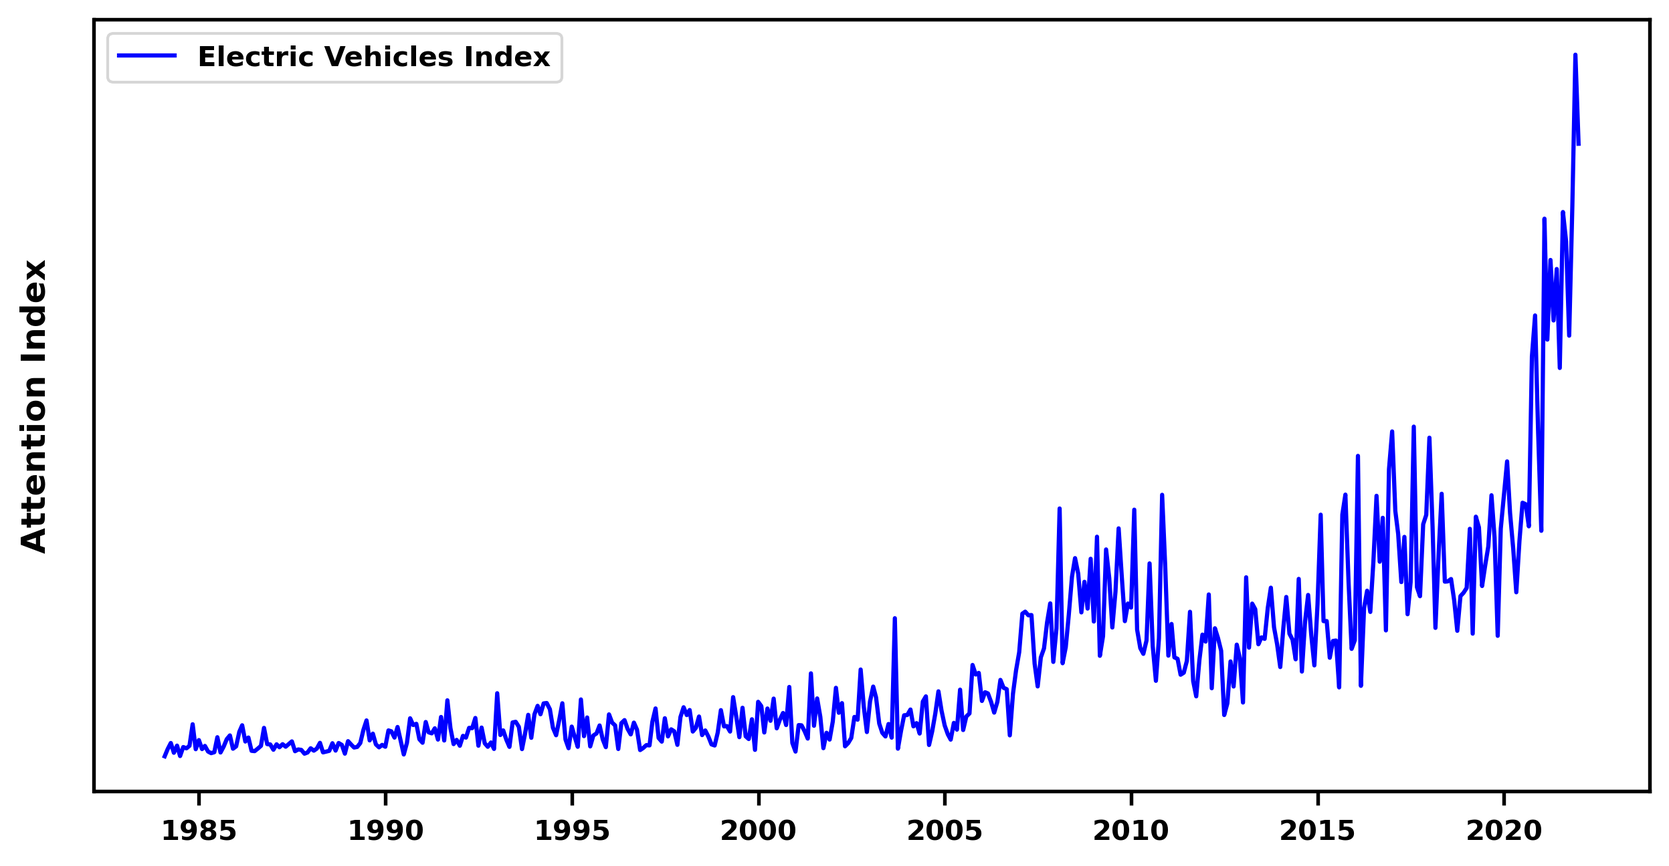
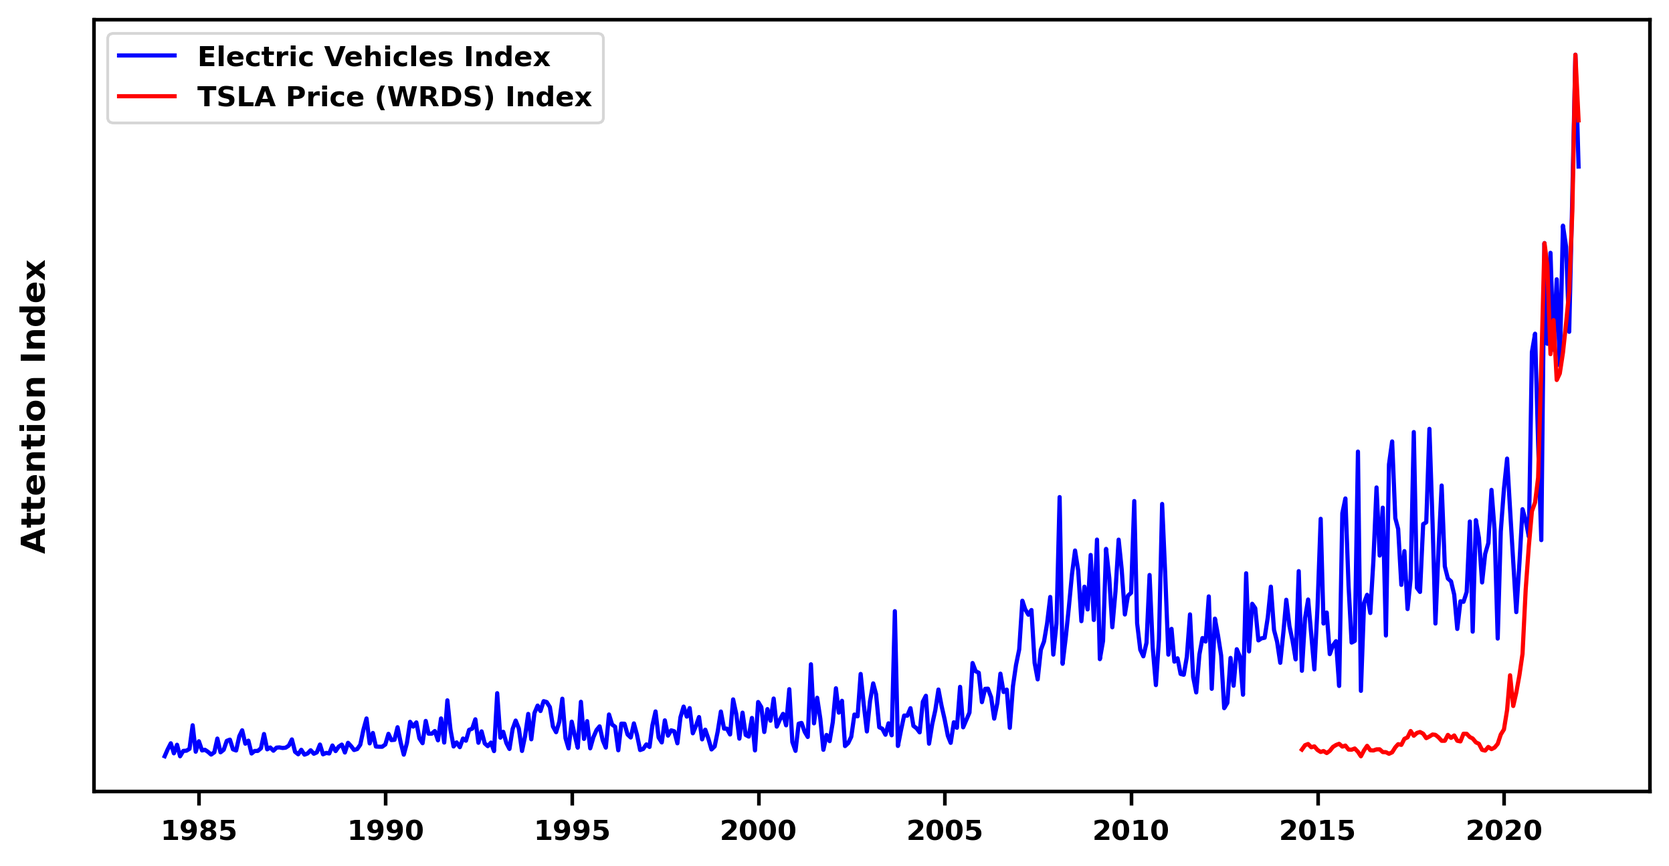
added new plots and experimenting with full time series or sparse

diff --git a/exec_research/exec_generate/generate_paper_plot.py b/exec_research/exec_generate/generate_paper_plot.py
@@ -88,39 +88,12 @@ if __name__ == "__main__":
     # # ------------------------------------------------------------------------------------------------------------------------------------------------------------------------------------------------
     # # ------------------------------------------------------------------------------------------------------------------------------------------------------------------------------------------------
     # print("-" * 120)
-    # query = 'US Economic Policy Uncertainty'
-    # generate = GenEmb(query=query, expand=expand, info=info, vector_data=vector_data, vector_column=vector_column, article_data=article_data, interval=interval, p_val=p_val)
-    # index, expanded_query, threshold = generate.generate_emb()
-    # index, pearson_corr = generate._compare_index(index=index, interval=interval, file_path='epu.parquet.brotli')
-    # generate.save(query=query, expanded_query=expanded_query, p_val=p_val, threshold=threshold, pearson=pearson_corr, index_paper=index[['relu_score', 'official']], index_research=index[['relu_score', 'relu_norm_score', 'agg_norm_score', 'norm_score']], index_name_paper=['US EPU', 'US EPU (Baker et al.)'], index_name_research=['Transformed (Relu then Agg)', 'Transformed (Agg then Relu)', 'Non-Transformed (Agg)', 'Non-Transformed (No Agg)'], output=f'{type}_usepu_index')
-    #
-    # # ------------------------------------------------------------------------------------------------------------------------------------------------------------------------------------------------
-    # # ------------------------------------------------------------------------------------------------------------------------------------------------------------------------------------------------
-    # print("-" * 120)
-    # query = 'Inflation'
-    # generate = GenEmb(query=query, expand=expand, info=info, vector_data=vector_data, vector_column=vector_column, article_data=article_data, interval=interval, p_val=p_val)
-    # index, expanded_query, threshold = generate.generate_emb()
-    # index, pearson_corr = generate._compare_index(index=index, interval=interval, file_path='ir.parquet.brotli')
-    # generate.save(query=query, expanded_query=expanded_query, p_val=p_val, threshold=threshold, pearson=pearson_corr, index_paper=index[['relu_score', 'official']], index_research=index[['relu_score', 'relu_norm_score', 'agg_norm_score', 'norm_score']], index_name_paper=['Inflation', '5-Year Breakeven Inflation Rate (FRED)'], index_name_research=['Transformed (Relu then Agg)', 'Transformed (Agg then Relu)', 'Non-Transformed (Agg)', 'Non-Transformed (No Agg)'], output=f'{type}_inflation_index')
-    #
-    # # ------------------------------------------------------------------------------------------------------------------------------------------------------------------------------------------------
-    # # ------------------------------------------------------------------------------------------------------------------------------------------------------------------------------------------------
-    # print("-" * 120)
-    # query = 'Economic Recession'
-    # generate = GenEmb(query=query, expand=expand, info=info, vector_data=vector_data, vector_column=vector_column, article_data=article_data, interval=interval, p_val=p_val)
-    # index, expanded_query, threshold = generate.generate_emb()
-    # index, pearson_corr = generate._compare_index(index=index, interval=interval, file_path='recession.parquet.brotli')
-    # generate.save(query=query, expanded_query=expanded_query, p_val=p_val, threshold=threshold, pearson=pearson_corr, index_paper=index[['relu_score', 'official']], index_research=index[['relu_score', 'relu_norm_score', 'agg_norm_score', 'norm_score']], index_name_paper=['Economic Recession', 'Economic Recession (Bybee et al.)'], index_name_research=['Transformed (Relu then Agg)', 'Transformed (Agg then Relu)', 'Non-Transformed (Agg)', 'Non-Transformed (No Agg)'], output=f'{type}_economicrecession_index')
-    #
-    # # ------------------------------------------------------------------------------------------------------------------------------------------------------------------------------------------------
-    # # ------------------------------------------------------------------------------------------------------------------------------------------------------------------------------------------------
-    # print("-" * 120)
     # query = 'Market Crash'
     # generate = GenEmb(query=query, expand=expand, info=info, vector_data=vector_data, vector_column=vector_column, article_data=article_data, interval=interval, p_val=p_val)
     # index, expanded_query, threshold = generate.generate_emb()
     # index = generate._standardize(index)
     # generate.save(query=query, expanded_query=expanded_query, p_val=p_val, threshold=threshold, pearson=0, index_paper=index[['relu_score']], index_research=index[['relu_score', 'relu_norm_score', 'agg_norm_score', 'norm_score']], index_name_paper=['Market Crash'], index_name_research=['Transformed (Relu then Agg)', 'Transformed (Agg then Relu)', 'Non-Transformed (Agg)', 'Non-Transformed (No Agg)'], output=f'{type}_marketcrash_index')
-    #
+
     # # ------------------------------------------------------------------------------------------------------------------------------------------------------------------------------------------------
     # # ------------------------------------------------------------------------------------------------------------------------------------------------------------------------------------------------
     # print("-" * 120)
@@ -169,33 +142,57 @@ if __name__ == "__main__":
     # # ------------------------------------------------------------------------------------------------------------------------------------------------------------------------------------------------
     # # ------------------------------------------------------------------------------------------------------------------------------------------------------------------------------------------------
     # print("-" * 120)
+    # query = 'Electric Vehicles'
+    # generate = GenEmb(query=query, expand=expand, info=info, vector_data=vector_data, vector_column=vector_column, article_data=article_data, interval=interval, p_val=p_val)
+    # index, expanded_query, threshold = generate.generate_emb()
+    # index = generate._join_index(index=index, interval=interval, file_path='tsla.parquet.brotli')
+    # generate.save(query=query, expanded_query=expanded_query, p_val=p_val, threshold=threshold, pearson=pearson_corr, index_paper=index[['relu_score', 'official']], index_research=index[['relu_score', 'relu_norm_score', 'agg_norm_score', 'norm_score']], index_name_paper=['Electric Vehicles', 'TSLA Price (WRDS)'], index_name_research=['Transformed (Relu then Agg)', 'Transformed (Agg then Relu)', 'Non-Transformed (Agg)', 'Non-Transformed (No Agg)'], output=f'{type}_ev_index')
+    #
+    # # ------------------------------------------------------------------------------------------------------------------------------------------------------------------------------------------------
+    # # ------------------------------------------------------------------------------------------------------------------------------------------------------------------------------------------------
+    # print("-" * 120)
+    # query = 'US Economic Policy Uncertainty'
+    # generate = GenEmb(query=query, expand=expand, info=info, vector_data=vector_data, vector_column=vector_column, article_data=article_data, interval=interval, p_val=p_val)
+    # index, expanded_query, threshold = generate.generate_emb()
+    # index, pearson_corr = generate._compare_index(index=index, interval=interval, file_path='epu.parquet.brotli')
+    # generate.save(query=query, expanded_query=expanded_query, p_val=p_val, threshold=threshold, pearson=pearson_corr, index_paper=index[['relu_score', 'official']], index_research=index[['relu_score', 'relu_norm_score', 'agg_norm_score', 'norm_score']], index_name_paper=['US EPU', 'US EPU (Baker et al.)'], index_name_research=['Transformed (Relu then Agg)', 'Transformed (Agg then Relu)', 'Non-Transformed (Agg)', 'Non-Transformed (No Agg)'], output=f'{type}_usepu_index')
+    #
+    # # ------------------------------------------------------------------------------------------------------------------------------------------------------------------------------------------------
+    # # ------------------------------------------------------------------------------------------------------------------------------------------------------------------------------------------------
+    # print("-" * 120)
+    # query = 'Inflation'
+    # generate = GenEmb(query=query, expand=expand, info=info, vector_data=vector_data, vector_column=vector_column, article_data=article_data, interval=interval, p_val=p_val)
+    # index, expanded_query, threshold = generate.generate_emb()
+    # index, pearson_corr = generate._compare_index(index=index, interval=interval, file_path='ir.parquet.brotli')
+    # generate.save(query=query, expanded_query=expanded_query, p_val=p_val, threshold=threshold, pearson=pearson_corr, index_paper=index[['relu_score', 'official']], index_research=index[['relu_score', 'relu_norm_score', 'agg_norm_score', 'norm_score']], index_name_paper=['Inflation', '5-Year Breakeven Inflation Rate (FRED)'], index_name_research=['Transformed (Relu then Agg)', 'Transformed (Agg then Relu)', 'Non-Transformed (Agg)', 'Non-Transformed (No Agg)'], output=f'{type}_inflation_index')
+    #
+    # # ------------------------------------------------------------------------------------------------------------------------------------------------------------------------------------------------
+    # # ------------------------------------------------------------------------------------------------------------------------------------------------------------------------------------------------
+    # print("-" * 120)
+    # query = 'Economic Recession'
+    # generate = GenEmb(query=query, expand=expand, info=info, vector_data=vector_data, vector_column=vector_column, article_data=article_data, interval=interval, p_val=p_val)
+    # index, expanded_query, threshold = generate.generate_emb()
+    # index, pearson_corr = generate._compare_index(index=index, interval=interval, file_path='recession.parquet.brotli')
+    # generate.save(query=query, expanded_query=expanded_query, p_val=p_val, threshold=threshold, pearson=pearson_corr, index_paper=index[['relu_score', 'official']], index_research=index[['relu_score', 'relu_norm_score', 'agg_norm_score', 'norm_score']], index_name_paper=['Economic Recession', 'Economic Recession (Bybee et al.)'], index_name_research=['Transformed (Relu then Agg)', 'Transformed (Agg then Relu)', 'Non-Transformed (Agg)', 'Non-Transformed (No Agg)'], output=f'{type}_economicrecession_index')
+    #
+    # # ------------------------------------------------------------------------------------------------------------------------------------------------------------------------------------------------
+    # # ------------------------------------------------------------------------------------------------------------------------------------------------------------------------------------------------
+    # print("-" * 120)
     # query = 'Systemic Financial Stress'
     # generate = GenEmb(query=query, expand=expand, info=info, vector_data=vector_data, vector_column=vector_column, article_data=article_data, interval=interval, p_val=p_val)
     # index, expanded_query, threshold = generate.generate_emb()
     # index, pearson_corr = generate._compare_index(index=index, interval=interval, file_path='fsi.parquet.brotli')
-    # generate.save(query=query, expanded_query=expanded_query, p_val=p_val, threshold=threshold, pearson=pearson_corr, index_paper=index[['relu_score', 'official']], index_research=index[['relu_score', 'relu_norm_score', 'agg_norm_score', 'norm_score']], index_name_paper=['Financial Stress', 'Financial Stress (Baker et al.)'], index_name_research=['Transformed (Relu then Agg)', 'Transformed (Agg then Relu)', 'Non-Transformed (Agg)', 'Non-Transformed (No Agg)'], output=f'{type}_fsi_index')
+    # generate.save(query=query, expanded_query=expanded_query, p_val=p_val, threshold=threshold, pearson=pearson_corr, index_paper=index[['relu_score', 'official']], index_research=index[['relu_score', 'relu_norm_score', 'agg_norm_score', 'norm_score']], index_name_paper=['Systemic Financial Stress', 'Financial Stress (OFR)'], index_name_research=['Transformed (Relu then Agg)', 'Transformed (Agg then Relu)', 'Non-Transformed (Agg)', 'Non-Transformed (No Agg)'], output=f'{type}_fsi_index')
 
-    # # ------------------------------------------------------------------------------------------------------------------------------------------------------------------------------------------------
-    # # ------------------------------------------------------------------------------------------------------------------------------------------------------------------------------------------------
-    # print("-" * 120)
-    # # query = 'Volatility Index'
-    # # query = 'Fear Index'
-    # query = 'Option Volatility Index'
-    # generate = GenEmb(query=query, expand=expand, info=info, vector_data=vector_data, vector_column=vector_column, article_data=article_data, interval=interval, p_val=p_val)
-    # index, expanded_query, threshold = generate.generate_emb()
-    # index, pearson_corr = generate._compare_index(index=index, interval=interval, file_path='vix_option.parquet.brotli')
-    # generate.save(query=query, expanded_query=expanded_query, p_val=p_val, threshold=threshold, pearson=pearson_corr, index_paper=index[['relu_score', 'official']], index_research=index[['relu_score', 'relu_norm_score', 'agg_norm_score', 'norm_score']], index_name_paper=['Option Volatility', 'CBOE Volatility (FRED)'], index_name_research=['Transformed (Relu then Agg)', 'Transformed (Agg then Relu)', 'Non-Transformed (Agg)', 'Non-Transformed (No Agg)'], output=f'{type}_vix_index')
-
-    # # ------------------------------------------------------------------------------------------------------------------------------------------------------------------------------------------------
-    # # ------------------------------------------------------------------------------------------------------------------------------------------------------------------------------------------------
-    # print("-" * 120)
-    # query = 'Electric Vehicles'
-    # generate = GenEmb(query=query, expand=expand, info=info, vector_data=vector_data, vector_column=vector_column, article_data=article_data, interval=interval, p_val=p_val)
-    # index, expanded_query, threshold = generate.generate_emb()
-    # # index, pearson_corr = generate._compare_index(index=index, interval=interval, file_path='tsla.parquet.brotli')
-    # index = generate._standardize(index)
-    # # generate.save(query=query, expanded_query=expanded_query, p_val=p_val, threshold=threshold, pearson=pearson_corr, index_paper=index[['relu_score', 'official']], index_research=index[['relu_score', 'relu_norm_score', 'agg_norm_score', 'norm_score']], index_name_paper=['Electric Vehicles', 'TSLA Price (WRDS)'], index_name_research=['Transformed (Relu then Agg)', 'Transformed (Agg then Relu)', 'Non-Transformed (Agg)', 'Non-Transformed (No Agg)'], output=f'{type}_ev_index')
-    # generate.save(query=query, expanded_query=expanded_query, p_val=p_val, threshold=threshold, pearson=pearson_corr, index_paper=index[['relu_score']], index_research=index[['relu_score', 'relu_norm_score', 'agg_norm_score', 'norm_score']], index_name_paper=['Electric Vehicles'], index_name_research=['Transformed (Relu then Agg)', 'Transformed (Agg then Relu)', 'Non-Transformed (Agg)', 'Non-Transformed (No Agg)'], output=f'{type}_ev_index')
+    # ------------------------------------------------------------------------------------------------------------------------------------------------------------------------------------------------
+    # ------------------------------------------------------------------------------------------------------------------------------------------------------------------------------------------------
+    print("-" * 120)
+    query = 'Market Volatility'
+    # query = 'Fear Index'
+    generate = GenEmb(query=query, expand=expand, info=info, vector_data=vector_data, vector_column=vector_column, article_data=article_data, interval=interval, p_val=p_val)
+    index, expanded_query, threshold = generate.generate_emb()
+    index, pearson_corr = generate._compare_index(index=index, interval=interval, file_path='vix_option.parquet.brotli')
+    generate.save(query=query, expanded_query=expanded_query, p_val=p_val, threshold=threshold, pearson=pearson_corr, index_paper=index[['relu_score', 'official']], index_research=index[['relu_score', 'relu_norm_score', 'agg_norm_score', 'norm_score']], index_name_paper=['Fear Index', 'CBOE Volatility (FRED)'], index_name_research=['Transformed (Relu then Agg)', 'Transformed (Agg then Relu)', 'Non-Transformed (Agg)', 'Non-Transformed (No Agg)'], output=f'{type}_vix_index')
 
     # # ------------------------------------------------------------------------------------------------------------------------------------------------------------------------------------------------
     # # ------------------------------------------------------------------------------------------------------------------------------------------------------------------------------------------------
@@ -209,45 +206,45 @@ if __name__ == "__main__":
     # generate.daily_before_agg_index.to_csv(f'../../view_attention/{type}_informationtheory_index/daily_before_agg_index.csv')
     # generate.daily_after_agg_index.to_csv(f'../../view_attention/{type}_informationtheory_index/daily_after_agg_index.csv')
 
-    # ------------------------------------------------------------------------------------------------------------------------------------------------------------------------------------------------
-    # ------------------------------------------------------------------------------------------------------------------------------------------------------------------------------------------------
-    # Get language data for research paper
-    def language_data(language, output_dir):
-        os.makedirs(output_dir, exist_ok=True)
-        label_collect = dict(English=1)
-        time_series_collect = dict(English=1)
-        for i, (lan, query) in enumerate(language):
-            generate = GenEmb(query=query, expand=False, info=info, vector_data=vector_data, vector_column=vector_column, article_data=article_data, interval=interval, p_val=p_val)
-            index, expanded_query, threshold = generate.generate_emb()
-            if lan == 'English':
-                eng_index = index
-                eng_label = pd.Series(generate.label_emb.squeeze())
-                continue
-
-            label_collect[f'{lan}'] = eng_label.corr(pd.Series(generate.label_emb.squeeze()))
-            time_series_collect[f'{lan}'] = eng_index['relu_score'].corr(index['relu_score'])
-
-        df = pd.DataFrame({
-            'Language': ['English'] + [lan for lan in label_collect if lan != 'English'],
-            'Query': [lan[0][1]] + [f'{lan[1]}' for lan in language if lan[0] != 'English'],
-            'Query Embedding Correlation': [1] + [label_collect[lan] for lan in label_collect if lan != 'English'],
-            'Attention Index Correlation': [1] + [time_series_collect[lan] for lan in time_series_collect if lan != 'English']
-        })
-
-        df.to_csv(output_dir + '/language.csv', index=False)
-        print(df)
-
-    print("-"*120)
-    language = [('English', 'Inflation'), ('Chinese', '通货膨胀'), ('Russian', 'инфляция'), ('Spanish', 'inflación'), ('French', "d'inflation"), ('Arabic', 'زِيادة في الأَسْعار')]
-    output_dir = '../../view_attention/language_inflation'
-    language_data(language=language, output_dir=output_dir)
-
-    print("-"*120)
-    language = [('English', 'Economic Recession'), ('Chinese', '经济衰退'), ('Russian', 'экономическая рецессия'), ('Spanish', 'recesión económica'), ('French', 'récession économique'), ('Arabic', 'الركود الاقتصادي')]
-    output_dir = '../../view_attention/language_economicrecession'
-    language_data(language=language, output_dir=output_dir)
-
-    print("-" * 120)
-    language = [('English', 'Artificial Intelligence'), ('Chinese', '人工智能'), ('Russian', 'искусственный интеллект'), ('Spanish', 'inteligencia artificial'), ('French', 'intelligence artificielle'), ('Arabic', 'الذكاء الاصطناعي')]
-    output_dir = '../../view_attention/language_ai'
-    language_data(language=language, output_dir=output_dir)
+    # # ------------------------------------------------------------------------------------------------------------------------------------------------------------------------------------------------
+    # # ------------------------------------------------------------------------------------------------------------------------------------------------------------------------------------------------
+    # # Get language data for research paper
+    # def language_data(language, output_dir):
+    #     os.makedirs(output_dir, exist_ok=True)
+    #     label_collect = dict(English=1)
+    #     time_series_collect = dict(English=1)
+    #     for i, (lan, query) in enumerate(language):
+    #         generate = GenEmb(query=query, expand=False, info=info, vector_data=vector_data, vector_column=vector_column, article_data=article_data, interval=interval, p_val=p_val)
+    #         index, expanded_query, threshold = generate.generate_emb()
+    #         if lan == 'English':
+    #             eng_index = index
+    #             eng_label = pd.Series(generate.label_emb.squeeze())
+    #             continue
+    #
+    #         label_collect[f'{lan}'] = eng_label.corr(pd.Series(generate.label_emb.squeeze()))
+    #         time_series_collect[f'{lan}'] = eng_index['relu_score'].corr(index['relu_score'])
+    #
+    #     df = pd.DataFrame({
+    #         'Language': ['English'] + [lan for lan in label_collect if lan != 'English'],
+    #         'Query': [lan[0][1]] + [f'{lan[1]}' for lan in language if lan[0] != 'English'],
+    #         'Query Embedding Correlation': [1] + [label_collect[lan] for lan in label_collect if lan != 'English'],
+    #         'Attention Index Correlation': [1] + [time_series_collect[lan] for lan in time_series_collect if lan != 'English']
+    #     })
+    #
+    #     df.to_csv(output_dir + '/language.csv', index=False)
+    #     print(df)
+    #
+    # print("-"*120)
+    # language = [('English', 'Inflation'), ('Chinese', '通货膨胀'), ('Russian', 'инфляция'), ('Spanish', 'inflación'), ('French', "d'inflation"), ('Arabic', 'زِيادة في الأَسْعار')]
+    # output_dir = '../../view_attention/language_inflation'
+    # language_data(language=language, output_dir=output_dir)
+    #
+    # print("-"*120)
+    # language = [('English', 'Economic Recession'), ('Chinese', '经济衰退'), ('Russian', 'экономическая рецессия'), ('Spanish', 'recesión económica'), ('French', 'récession économique'), ('Arabic', 'الركود الاقتصادي')]
+    # output_dir = '../../view_attention/language_economicrecession'
+    # language_data(language=language, output_dir=output_dir)
+    #
+    # print("-" * 120)
+    # language = [('English', 'Artificial Intelligence'), ('Chinese', '人工智能'), ('Russian', 'искусственный интеллект'), ('Spanish', 'inteligencia artificial'), ('French', 'intelligence artificielle'), ('Arabic', 'الذكاء الاصطناعي')]
+    # output_dir = '../../view_attention/language_ai'
+    # language_data(language=language, output_dir=output_dir)

diff --git a/exec_research/class_generate/gen_emb.py b/exec_research/class_generate/gen_emb.py
@@ -137,8 +137,8 @@ class GenEmb:
         if not official_index.index.freqstr == interval:
             official_index = official_index.resample(interval).mean()
         # Join official index to generated index
-        index = index.join(official_index).dropna()
-        # index = index.join(official_index)
+        # index = index.join(official_index).dropna()
+        index = index.join(official_index)
         # Min-max scale all indexes to 0 and 1
         scaler = MinMaxScaler(feature_range=(0, 1))
         columns_to_scale = ['relu_score', 'relu_norm_score', 'agg_norm_score', 'norm_score', 'official']
